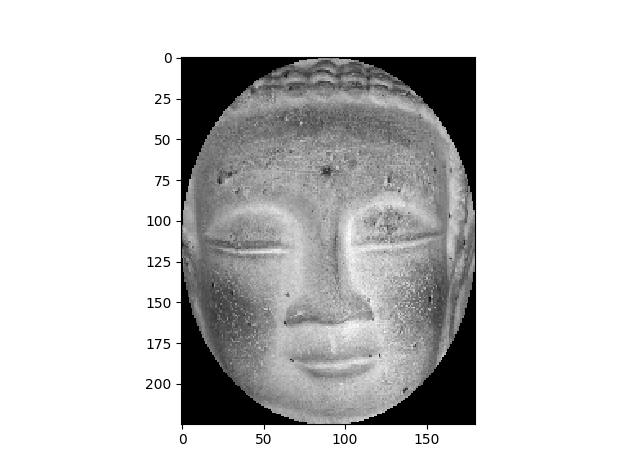
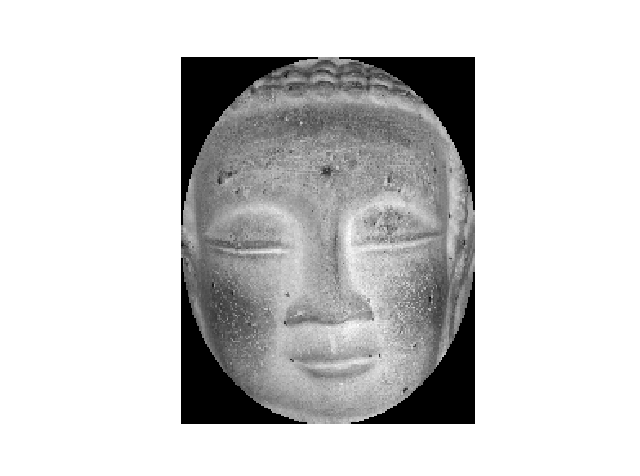
no axis

diff --git a/SCRIPT.py b/SCRIPT.py
@@ -49,6 +49,7 @@ def get_3Dirty(filename):
 	# display albedo image with mask applied
 	p = p.reshape(shape[1],shape[2])
 	plt.imshow(p * mask, 'gray')
+	plt.axis('off')
 	plt.show()
 	
 	## SIMCHONY FUNCTION DOES NOT FUNCTION! Uncomment next two code lines to perform Simchony
@@ -73,10 +74,11 @@ def mask_that_boy():
 Dirty3 = get_3Dirty('Buddha.mat')
 
 # display 4 different rotations of Dirty3 in 2D
-#rotations = [Dirty3]
+rotations = [Dirty3]
 
-#for i in range(3):
-#    Dirty3 = np.rot90(Dirty3)
-#    rotations.append(Dirty3)
+for i in range(3):
+    Dirty3 = np.rot90(Dirty3)
+    rotations.append(Dirty3)
 
+# uncomment next line to display 2D representations of Dirty3
 #prints = [display_depth_matplotlib(img) for img in rotations]
